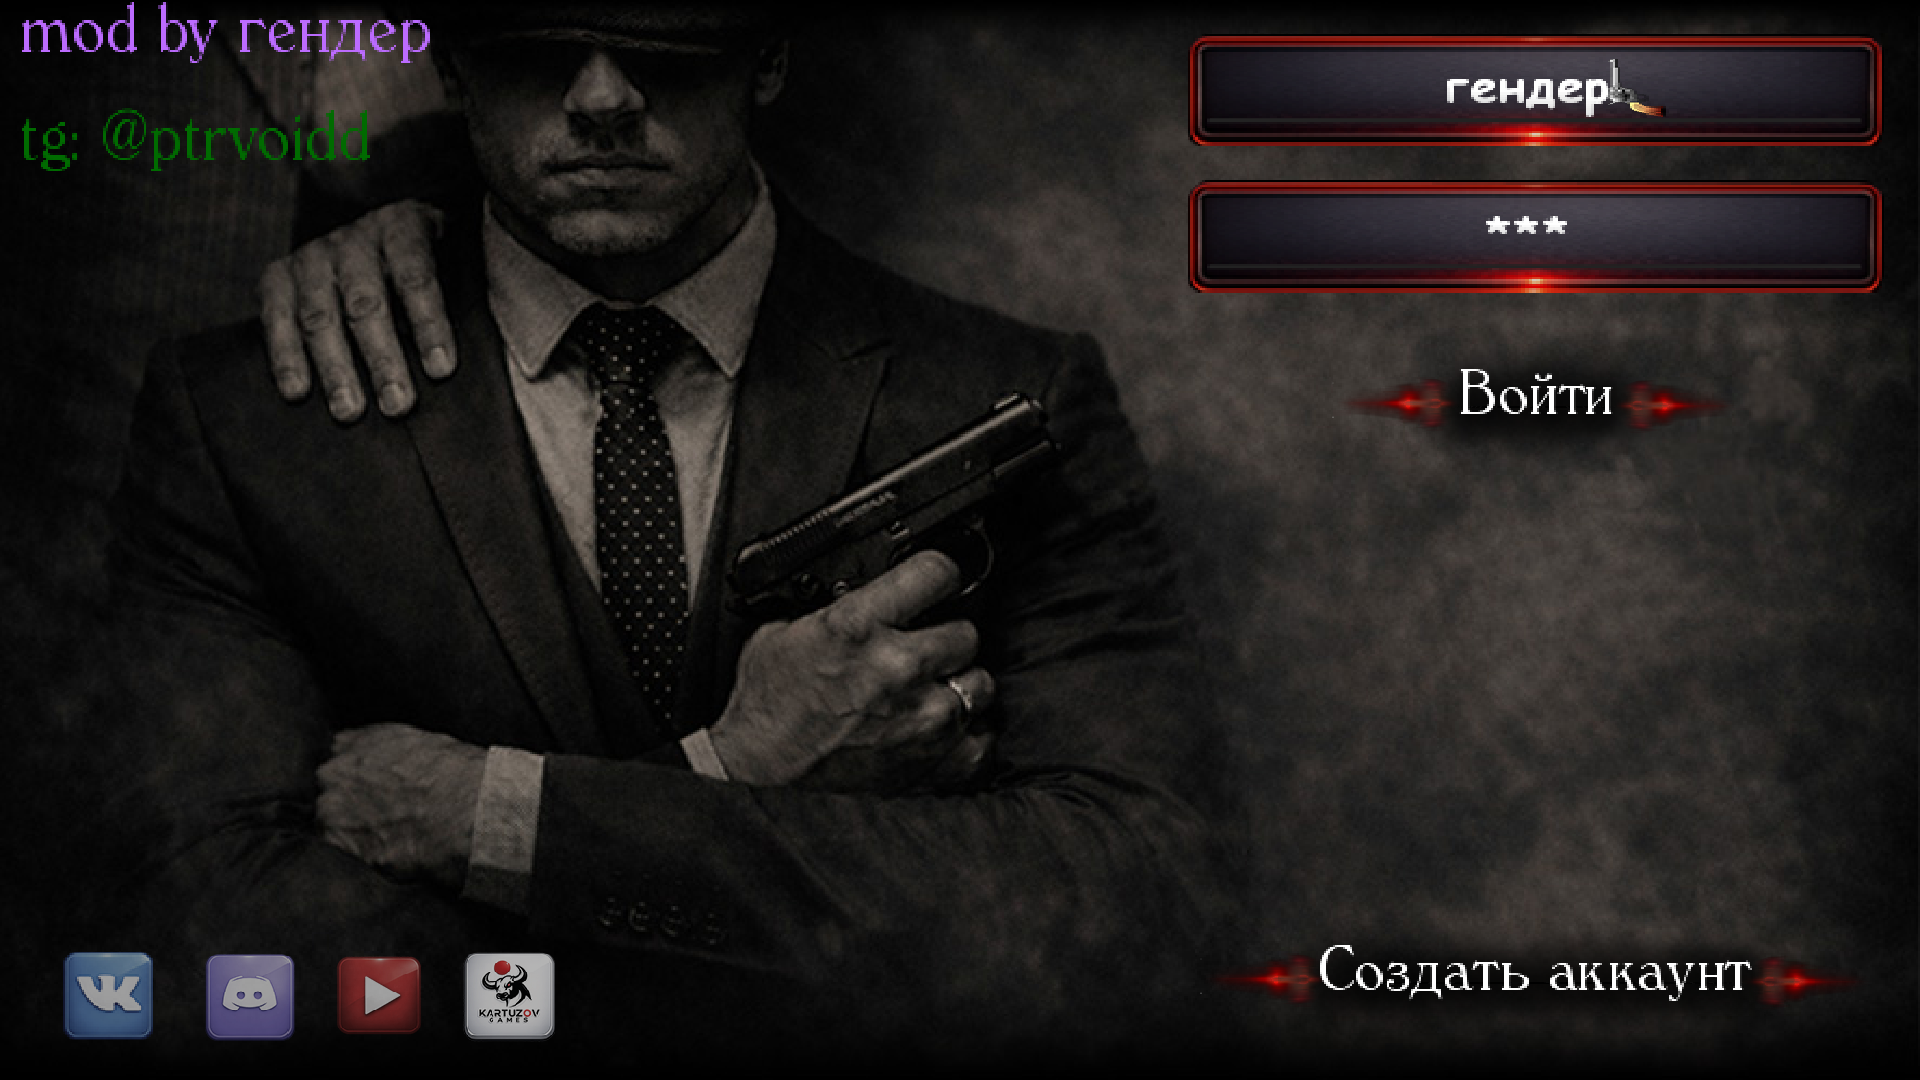
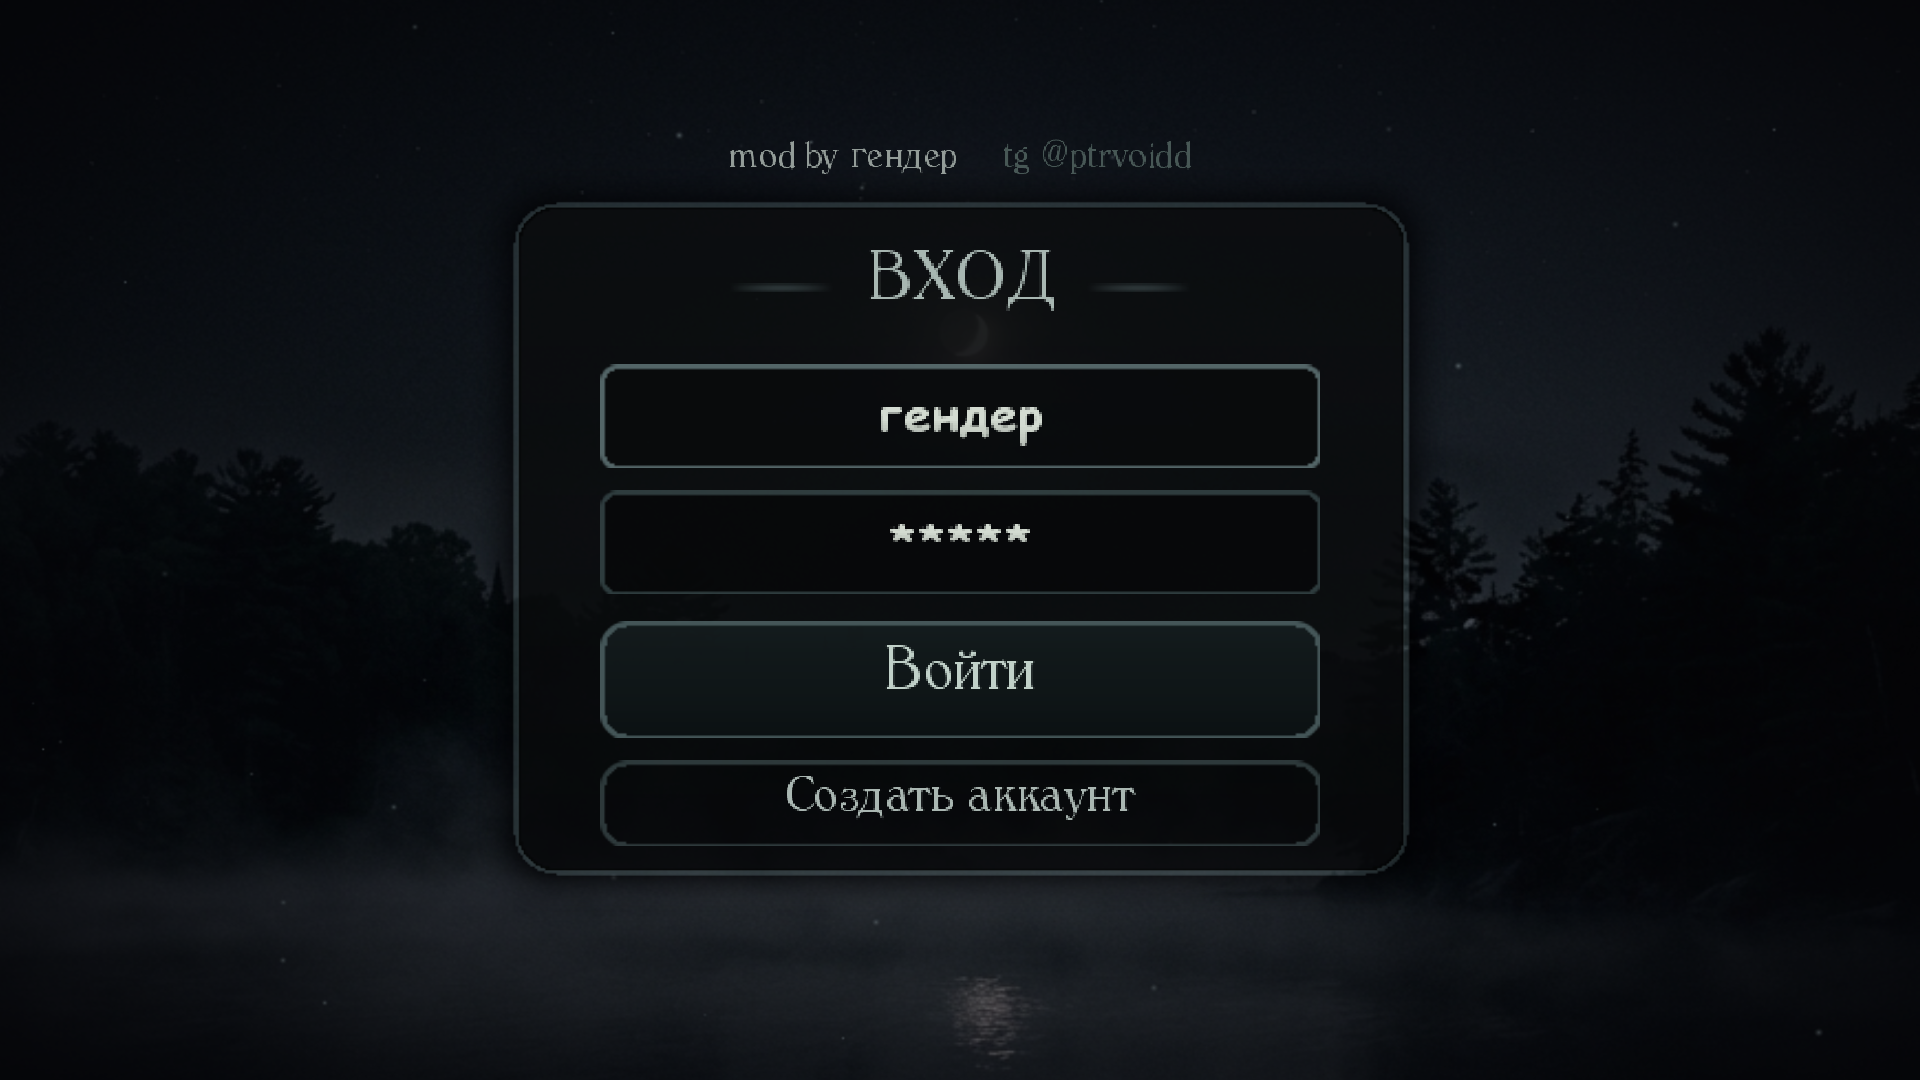
restore public13 screenshot and original public3

diff --git a/README.md b/README.md
@@ -1,5 +1,7 @@
 ![](_core/assets/public3.png)
 
+![](_core/assets/public13.png)
+
 ![](_core/assets/public1.png)
 
 ![](_core/assets/public2.png)
